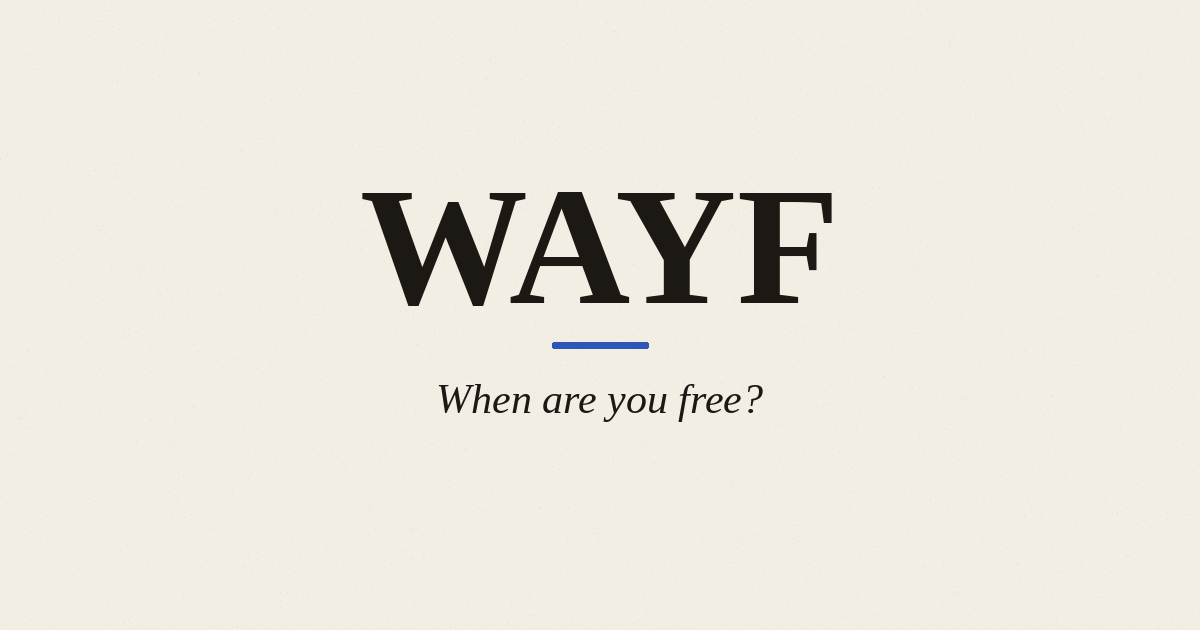
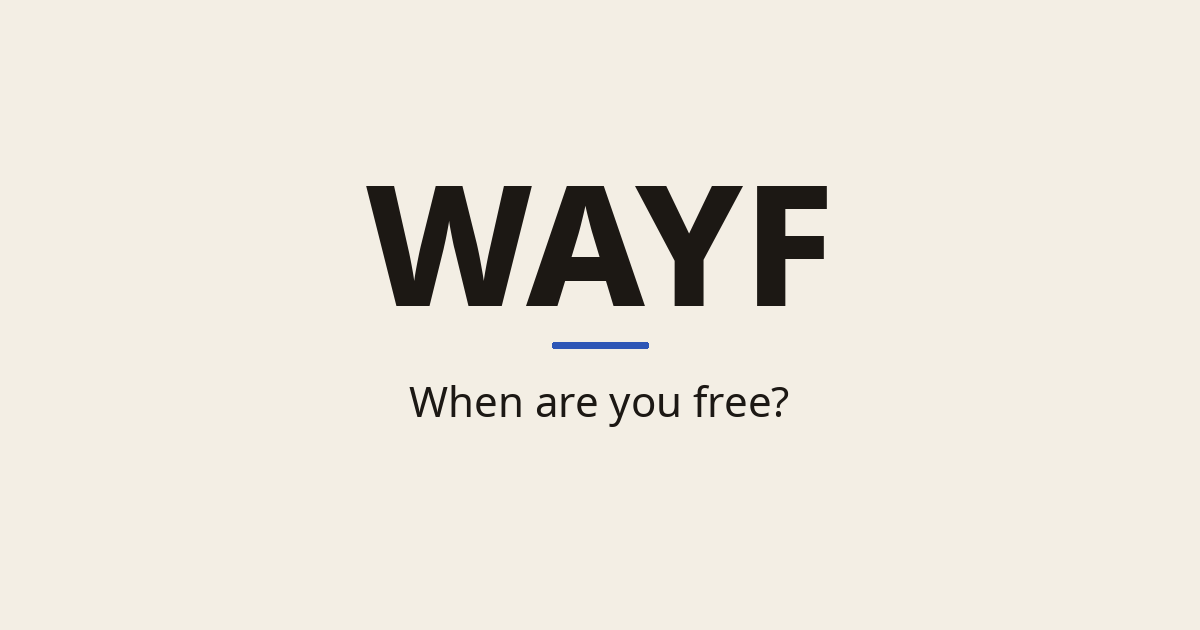
Replace OG poster with sans-serif Noto Sans
Andrew rejected the live serif poster. Same 1200x630 cream field,
cobalt rule, and "When are you free?" line, now ExtraBold + roman
Noto Sans. Cache-bust og:image with ?v=2 and bump homepage cache
to 10 so crawlers and the edge cache pick it up.

Changed region(s): [[0.3083, 0.2714, 0.7092, 0.4825], [0.3392, 0.6032, 0.6783, 0.6937]]

diff --git a/app/lib/seo.ts b/app/lib/seo.ts
@@ -6,7 +6,7 @@ export const HOME_TITLE = "WAYF: When are you free?";
 export const HOME_DESCRIPTION =
   "Name a meetup, share a link, and pick the days you're free. WAYF shows the overlap. No accounts.";
 
-const OG_IMAGE_PATH = "/og-wayf.png";
+const OG_IMAGE_PATH = "/og-wayf.png?v=2";
 const MARK_PATH = "/wayf-mark.png";
 const OG_IMAGE_ALT = "WAYF: When are you free?";
 

diff --git a/workers/app.ts b/workers/app.ts
@@ -33,7 +33,7 @@ function isHomepageGet(request: Request): boolean {
 }
 
 // Bump when homepage HTML, CSS tokens, or the theme boot script changes.
-const HOMEPAGE_CACHE_VERSION = "9";
+const HOMEPAGE_CACHE_VERSION = "10";
 
 function homepageCacheKey(request: Request): Request {
   const url = new URL("/", request.url);
